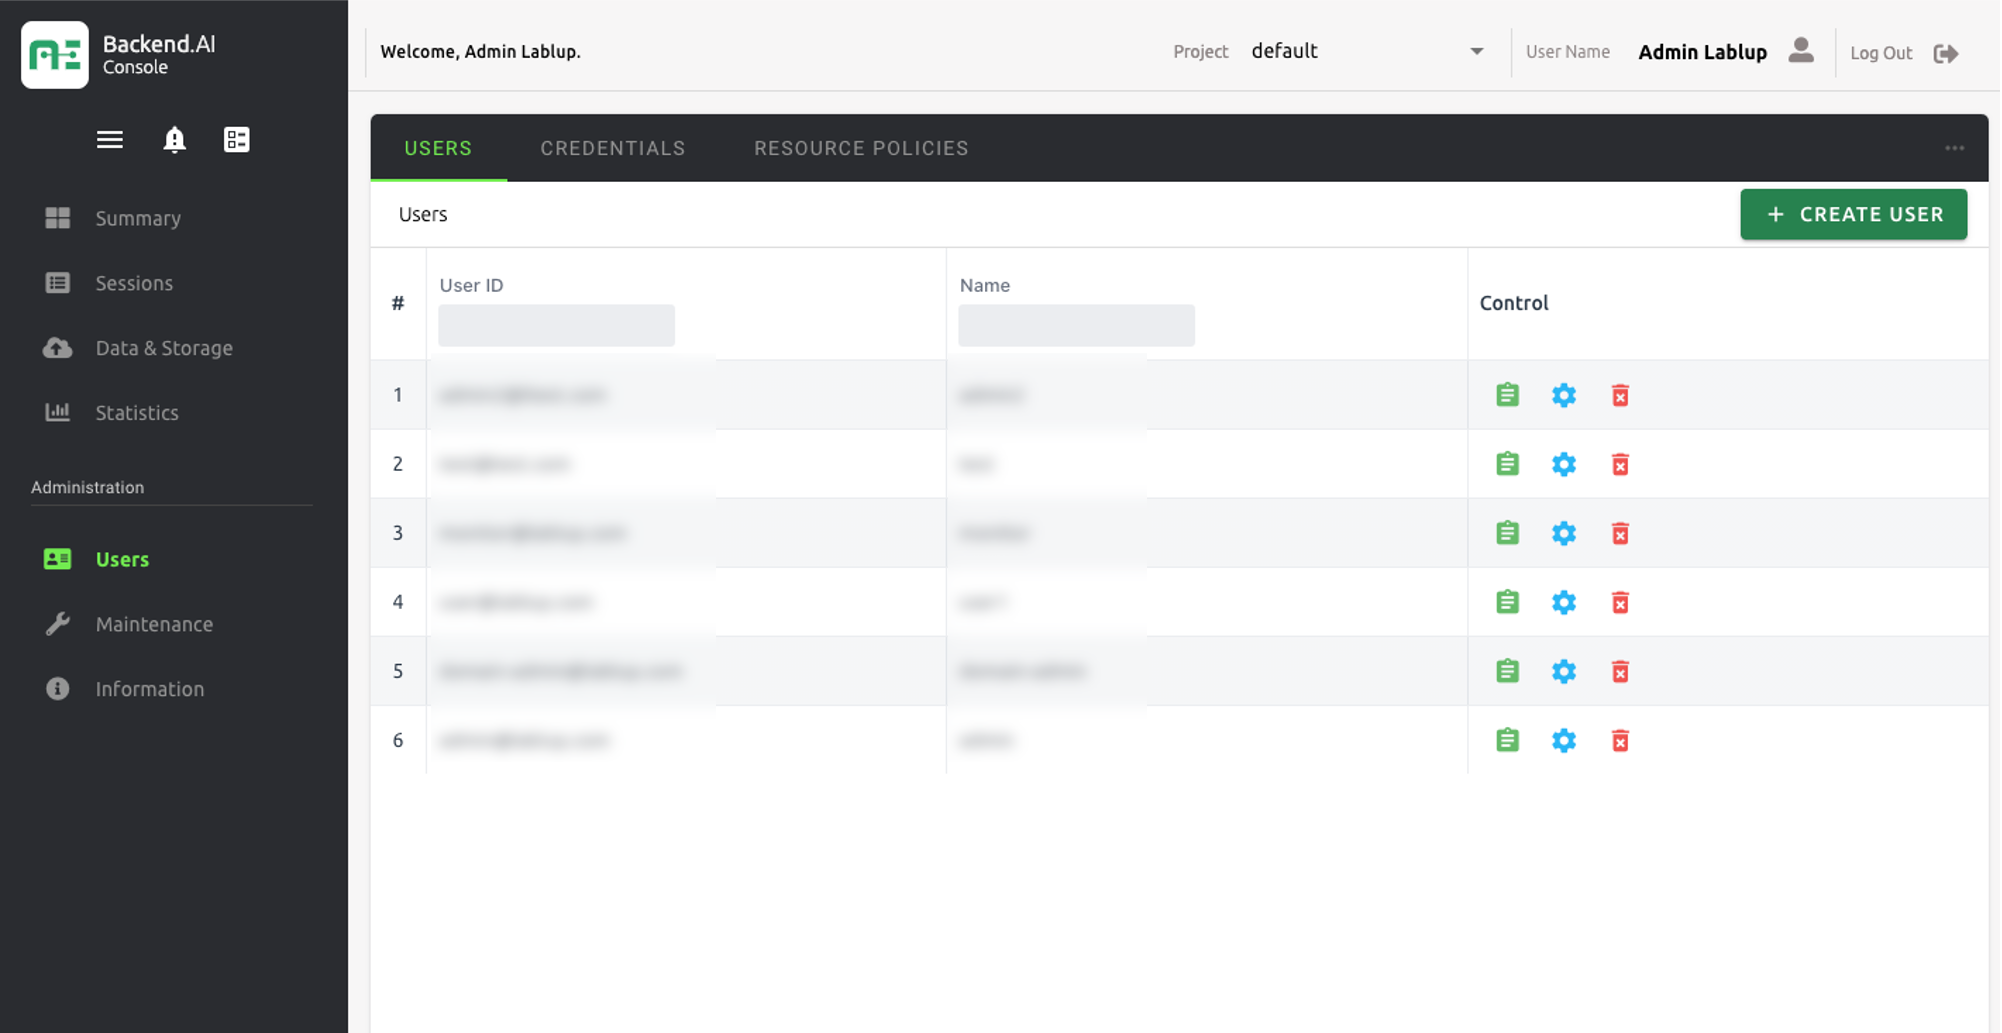
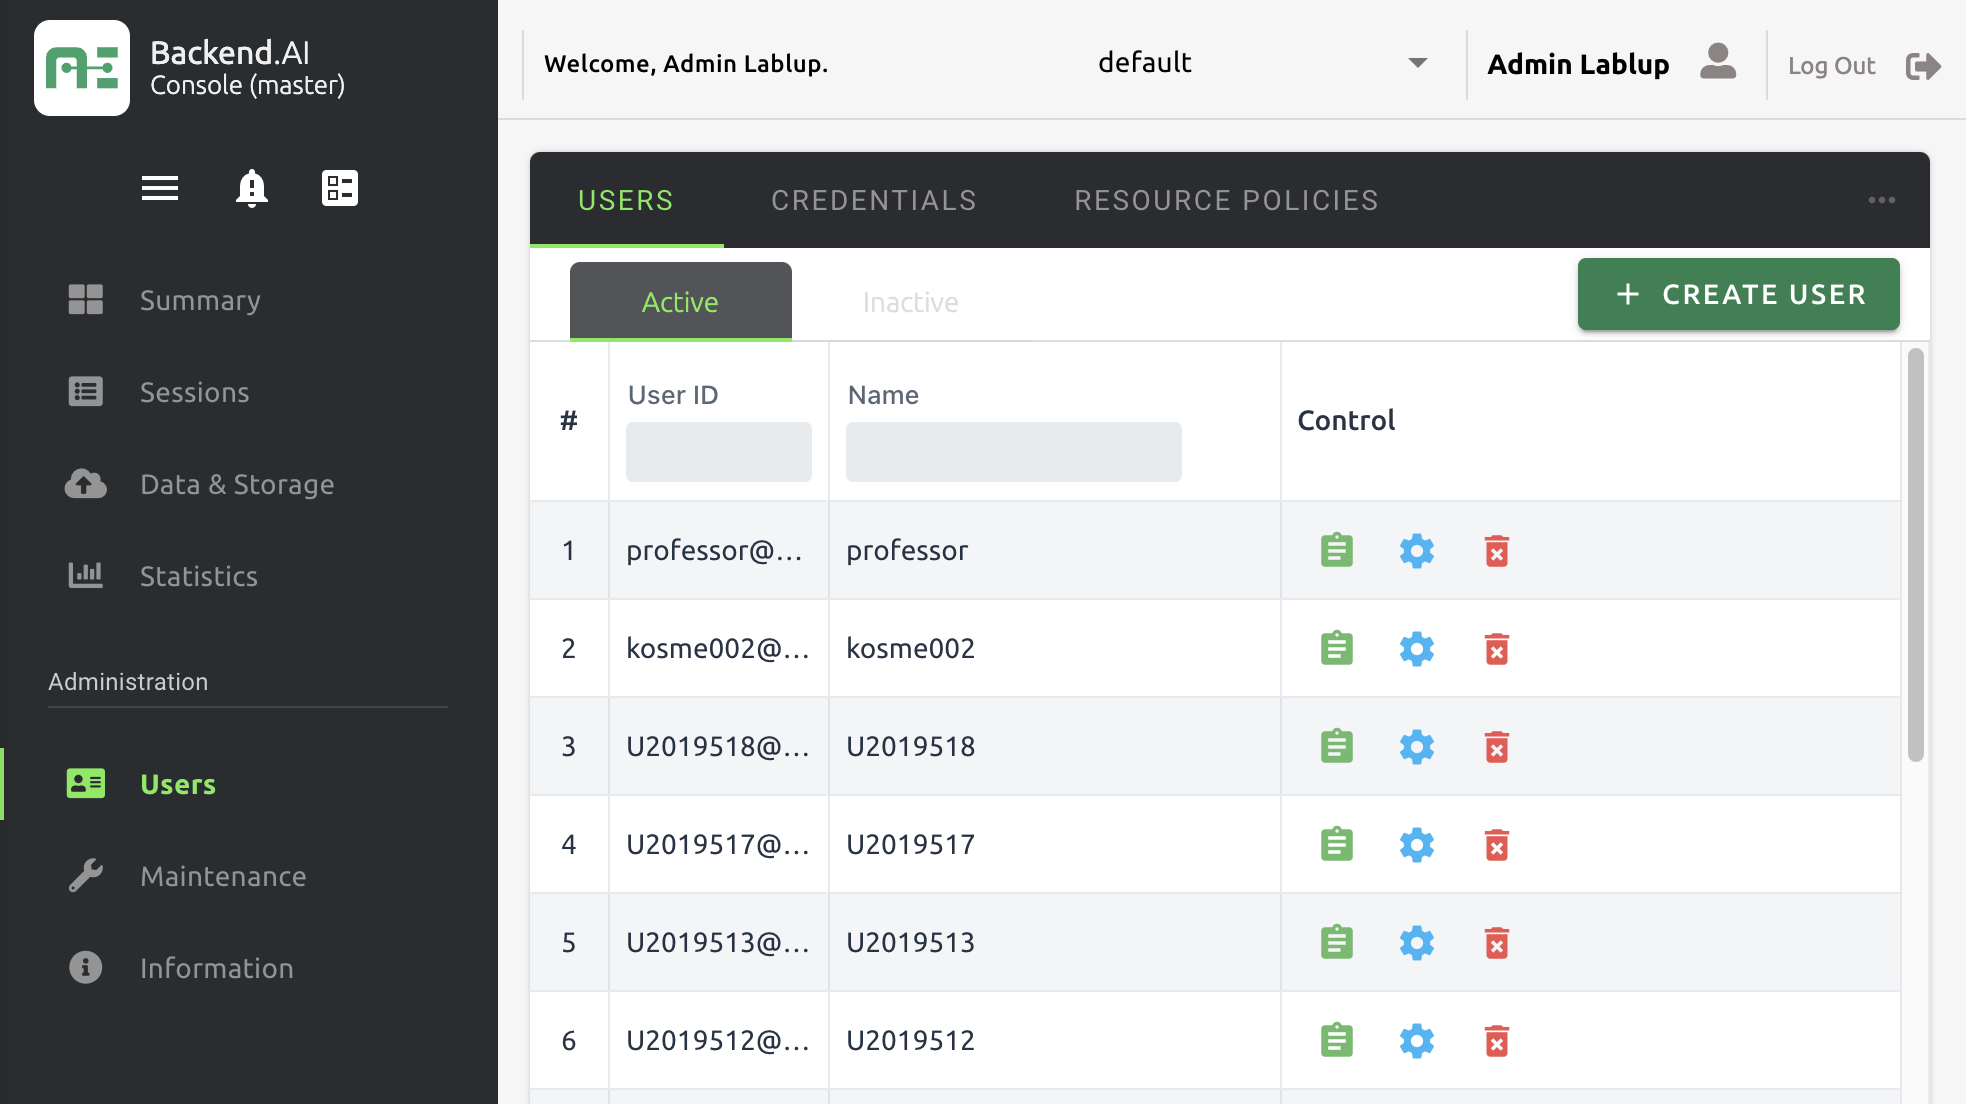
docs: add description on csv export on user,credential,policy page

diff --git a/docs/admin_menu/admin_menu.rst b/docs/admin_menu/admin_menu.rst
@@ -6,8 +6,12 @@ Admin Menus
 
 When you log in with an admin account, you will see an additional Administration
 menu in the bottom left sidebar. User information registered in Backend.AI is
-listed in the Users tab. Admins can see all user information. Only admins can
-create and deactivate a user.
+listed in the Users tab. You can view active users in the Active tab and
+inactive users in the Inactive tab.  Admins can see all user information. Only
+admins can create and deactivate a user.
+
+User ID (email) and Name (username) can be filtered by typing some text in the
+search box on each column header.
 
 .. image:: admin_user_page.png
    :alt: User management page
@@ -18,7 +22,8 @@ Create and update user
 
 A user can be created by clicking the CREATE USER button. Note that the password
 must be longer or equal to 8 characters and at least 1 alphabet/special
-character/ number should be included.
+character/ number should be included. The maximum allowed length of E-Mail and
+Username is 64.
 
 .. note::
 
@@ -26,30 +31,29 @@ character/ number should be included.
    creat user account. Please try other email and username.
 
 .. image:: create_user_dialog.png
-   :width: 500
+   :width: 400
    :align: center
-   :alt: Create user dialog
 
 If password didn't match the policy, then validation failed message will be displayed under the input field.
 A message displays the reason why the password you entered is wrong, so you can easily check it.
 
 * no inputs
 
-   .. image:: create_user_dialog_wrong.png
-      :width: 405
-      :align: center
+.. image:: create_user_dialog_wrong.png
+   :width: 400
+   :align: center
 
 * no input on password confirmation
 
-   .. image:: create_user_dialog_wrong2.png
-      :width: 405
-      :align: center
+.. image:: create_user_dialog_wrong2.png
+   :width: 400
+   :align: center
 
 * all input with non-matching value
 
-   .. image:: create_user_dialog_wrong3.png
-      :width: 405
-      :align: center
+.. image:: create_user_dialog_wrong3.png
+   :width: 400
+   :align: center
 
 
 Check if the user is created.
@@ -88,19 +92,19 @@ trash icon in the Controls column. A dialog asking confirmation appears, and
 you can deactivate the user by clicking the OKAY button.
 
 .. image:: user_deactivate_confirmation.png
-   :width: 600
+   :width: 400
    :align: center
    :alt: Deactivating user account
 
-Deactivated users are not listed in Users tab.
+To re-activate users, go to Users - Inactive tab, and edit the target user to
+turn on "Active user?" field.
 
 .. _sharing-a-group-storage:
 
 Sharing a group storage folder with group members
 -------------------------------------------------
 
-In addition to user's storage folders, Backend.AI provides storage folders for
-groups. A group storage folder is a folder belonging to a specific group, not a
+In addition to user's storage folders, Backend.AI provides storage folders for groups. A group storage folder is a folder belonging to a specific group, not a
 specific user, and can be accessed by all users belonging to that group.
 
 .. note::
@@ -256,6 +260,19 @@ In this way, it was confirmed that the development user can control the maximum
 amount of resources that can be allocated when creating a compute session
 based on the user's key pair.
 
+.. note::
+
+   In each of USERS, CREDENTIALS, RESOURCE POLICIES tabs, there is an icon
+   (``...``) on the far right side of the tab header. Clicking this reveals
+   export CSV menu, which again brings up a CSV export dialog for each tabs.
+   By giving appropriate file name, if necessary, and clicking EXPORT CSV FILE
+   button, you can download the list of users, keypairs, and/or resource
+   policies.
+
+    .. image:: export_csv_user.png
+       :width: 400
+       :align: center
+
 Server management
 -----------------
 
@@ -271,3 +288,9 @@ Go to the Maintenance page and you will see some buttons to manage the server.
    :width: 500
    :align: center
    :alt: Maintenance page
+
+Information
+-----------
+
+Information page display various details about Backend.AI service, license
+information.

diff --git a/docs/statistics/statistics.rst b/docs/statistics/statistics.rst
@@ -1,0 +1,18 @@
+===============
+Statistics Page
+===============
+
+On the Statistics page, you can check simple statistics related to the use of
+compute sessions via a graph. You can select the usage period for the last day
+or week from the range selection menu on the upper left. Items that can be
+inquired are as follows.
+
+* Sessions: The number of compute sessions created.
+* CPU: The number of CPU cores allocated while the compute session was created.
+* Memory: The amount of memory allocated while the compute session was created.
+* GPU: The number of GPU units allocated while the compute session was created.
+  If the Fractional GPU feature is enabled, it may not match the physics GPU.
+
+.. image:: usage_panel.png
+
+More detailed statistics can be found from the admin-only hub.

diff --git a/docs/index.rst b/docs/index.rst
@@ -31,6 +31,7 @@ The latest versions of full user's guide can be found from sites below:
    mount_vfolder/mount_vfolder
    share_vfolder/share_vfolder
    ml_kernels/ml_kernels
+   statistics/statistics
    admin_menu/admin_menu
    faq/faq
    license_agreement/license_agreement
